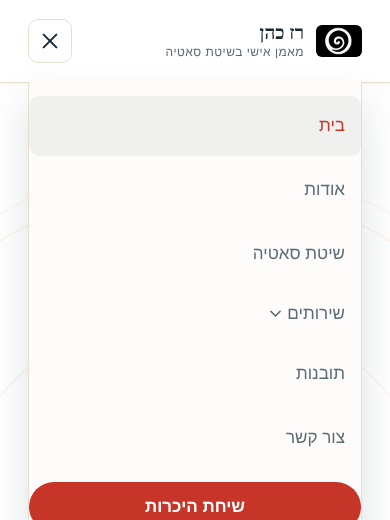
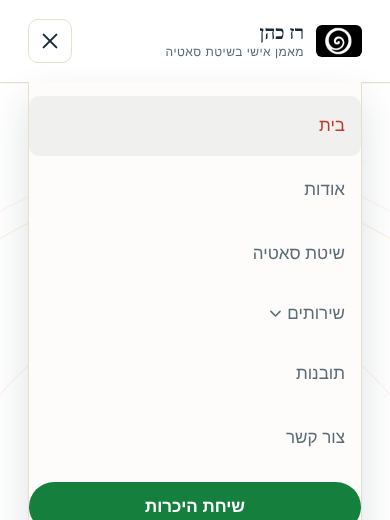
וואטסאפ כערוץ ראשי: כפתורי קריאה לפעולה (#54)
Claude-Session: https://claude.ai/code/session_019EitDQha8axd4jQ3HvUzVX

Changed region(s): [[0.0615, 0.9231, 0.9231, 1.0]]

diff --git a/satya-site/index.html b/satya-site/index.html
@@ -101,7 +101,10 @@
     <p class="hero-lede">אני רז כהן, מאמן אישי בשיטת סאטיה משנת 2017, מלווה מבוגרים, בני נוער וזוגות
     לעצור את האוטומטים, לחזור אל הגוף והנשימה - ולבחור מחדש. בקליניקה ברמת השרון ובאונליין.</p>
     <div class="hero-actions">
-      <a href="contact.html" class="btn btn-primary">לשיחת היכרות <span class="btn-arrow">←</span></a>
+      <a href="https://wa.me/972533040005?text=%D7%94%D7%99%D7%99%20%D7%A8%D7%96%2C%20%D7%90%D7%A9%D7%9E%D7%97%20%D7%9C%D7%AA%D7%90%D7%9D%20%D7%A9%D7%99%D7%97%D7%AA%20%D7%94%D7%99%D7%9B%D7%A8%D7%95%D7%AA" class="btn btn-whatsapp" target="_blank" rel="noopener">
+          <svg viewBox="0 0 24 24" fill="currentColor" aria-hidden="true"><path d="M12.04 2C6.58 2 2.13 6.45 2.13 11.91c0 1.75.46 3.45 1.32 4.95L2.05 22l5.25-1.38a9.9 9.9 0 0 0 4.74 1.21h.01c5.46 0 9.91-4.45 9.91-9.91C21.96 6.45 17.5 2 12.04 2Zm0 18.13h-.01a8.2 8.2 0 0 1-4.19-1.15l-.3-.18-3.12.82.83-3.04-.2-.31a8.2 8.2 0 0 1-1.26-4.36c0-4.54 3.7-8.24 8.25-8.24 2.2 0 4.27.86 5.83 2.42a8.18 8.18 0 0 1 2.41 5.83c0 4.55-3.7 8.21-8.24 8.21Zm4.52-6.16c-.25-.12-1.47-.72-1.69-.81-.23-.08-.39-.12-.56.13-.17.24-.64.81-.78.97-.15.17-.29.19-.53.06-.25-.12-1.05-.39-2-1.23-.74-.66-1.24-1.47-1.38-1.72-.15-.24-.02-.38.11-.5.11-.11.25-.29.37-.43.12-.15.16-.25.24-.41.08-.17.04-.31-.02-.44-.06-.12-.56-1.35-.77-1.85-.2-.48-.41-.42-.56-.42h-.48c-.17 0-.44.06-.67.31-.23.24-.87.85-.87 2.08 0 1.22.89 2.4 1.02 2.57.12.17 1.75 2.67 4.25 3.74.59.26 1.06.41 1.42.53.6.19 1.14.16 1.57.1.48-.07 1.47-.6 1.68-1.18.21-.58.21-1.08.14-1.18-.06-.1-.23-.16-.48-.28Z"/></svg>
+          שיחת היכרות בוואטסאפ
+        </a>
       <a href="satya.html" class="btn btn-outline">מה זו שיטת סאטיה</a>
     </div>
     <div class="hero-stats">
@@ -320,11 +323,11 @@
         <p>שיחת היכרות קצרה, ללא כל התחייבות.</p>
       </div>
       <div class="cta-actions" style="display:flex; gap:14px; flex-wrap:wrap;">
-        <a href="contact.html" class="btn btn-primary">לשיחת היכרות <span class="btn-arrow">←</span></a>
         <a href="https://wa.me/972533040005?text=%D7%94%D7%99%D7%99%20%D7%A8%D7%96%2C%20%D7%90%D7%A9%D7%9E%D7%97%20%D7%9C%D7%AA%D7%90%D7%9D%20%D7%A9%D7%99%D7%97%D7%AA%20%D7%94%D7%99%D7%9B%D7%A8%D7%95%D7%AA" class="btn btn-whatsapp" target="_blank" rel="noopener">
           <svg viewBox="0 0 24 24" fill="currentColor" aria-hidden="true"><path d="M12.04 2C6.58 2 2.13 6.45 2.13 11.91c0 1.75.46 3.45 1.32 4.95L2.05 22l5.25-1.38a9.9 9.9 0 0 0 4.74 1.21h.01c5.46 0 9.91-4.45 9.91-9.91C21.96 6.45 17.5 2 12.04 2Zm0 18.13h-.01a8.2 8.2 0 0 1-4.19-1.15l-.3-.18-3.12.82.83-3.04-.2-.31a8.2 8.2 0 0 1-1.26-4.36c0-4.54 3.7-8.24 8.25-8.24 2.2 0 4.27.86 5.83 2.42a8.18 8.18 0 0 1 2.41 5.83c0 4.55-3.7 8.21-8.24 8.21Zm4.52-6.16c-.25-.12-1.47-.72-1.69-.81-.23-.08-.39-.12-.56.13-.17.24-.64.81-.78.97-.15.17-.29.19-.53.06-.25-.12-1.05-.39-2-1.23-.74-.66-1.24-1.47-1.38-1.72-.15-.24-.02-.38.11-.5.11-.11.25-.29.37-.43.12-.15.16-.25.24-.41.08-.17.04-.31-.02-.44-.06-.12-.56-1.35-.77-1.85-.2-.48-.41-.42-.56-.42h-.48c-.17 0-.44.06-.67.31-.23.24-.87.85-.87 2.08 0 1.22.89 2.4 1.02 2.57.12.17 1.75 2.67 4.25 3.74.59.26 1.06.41 1.42.53.6.19 1.14.16 1.57.1.48-.07 1.47-.6 1.68-1.18.21-.58.21-1.08.14-1.18-.06-.1-.23-.16-.48-.28Z"/></svg>
           וואטסאפ ישיר
         </a>
+        <a href="contact.html" class="btn btn-outline">או השאירו פרטים</a>
       </div>
     </div>
   </div>

diff --git a/satya-site/clear-way.html b/satya-site/clear-way.html
@@ -207,11 +207,11 @@
         <p>שיחת הכנה אחת יכולה לשנות איך תגיעו אליה. בואו נדבר.</p>
       </div>
       <div class="cta-actions" style="display:flex; gap:14px; flex-wrap:wrap;">
-        <a href="contact.html" class="btn btn-primary">לשיחת היכרות <span class="btn-arrow">←</span></a>
         <a href="https://wa.me/972533040005?text=%D7%94%D7%99%D7%99%20%D7%A8%D7%96%2C%20%D7%99%D7%A9%20%D7%9C%D7%99%20%D7%A9%D7%99%D7%97%D7%94%20%D7%97%D7%A9%D7%95%D7%91%D7%94%20%D7%91%D7%A7%D7%A8%D7%95%D7%91%20%D7%95%D7%90%D7%A9%D7%9E%D7%97%20%D7%9C%D7%A9%D7%9E%D7%95%D7%A2%20%D7%A2%D7%9C%20%D7%A9%D7%99%D7%97%D7%AA%20%D7%94%D7%9B%D7%A0%D7%94%20Clear%20Way" class="btn btn-whatsapp" target="_blank" rel="noopener">
           <svg viewBox="0 0 24 24" fill="currentColor" aria-hidden="true"><path d="M12.04 2C6.58 2 2.13 6.45 2.13 11.91c0 1.75.46 3.45 1.32 4.95L2.05 22l5.25-1.38a9.9 9.9 0 0 0 4.74 1.21h.01c5.46 0 9.91-4.45 9.91-9.91C21.96 6.45 17.5 2 12.04 2Zm0 18.13h-.01a8.2 8.2 0 0 1-4.19-1.15l-.3-.18-3.12.82.83-3.04-.2-.31a8.2 8.2 0 0 1-1.26-4.36c0-4.54 3.7-8.24 8.25-8.24 2.2 0 4.27.86 5.83 2.42a8.18 8.18 0 0 1 2.41 5.83c0 4.55-3.7 8.21-8.24 8.21Zm4.52-6.16c-.25-.12-1.47-.72-1.69-.81-.23-.08-.39-.12-.56.13-.17.24-.64.81-.78.97-.15.17-.29.19-.53.06-.25-.12-1.05-.39-2-1.23-.74-.66-1.24-1.47-1.38-1.72-.15-.24-.02-.38.11-.5.11-.11.25-.29.37-.43.12-.15.16-.25.24-.41.08-.17.04-.31-.02-.44-.06-.12-.56-1.35-.77-1.85-.2-.48-.41-.42-.56-.42h-.48c-.17 0-.44.06-.67.31-.23.24-.87.85-.87 2.08 0 1.22.89 2.4 1.02 2.57.12.17 1.75 2.67 4.25 3.74.59.26 1.06.41 1.42.53.6.19 1.14.16 1.57.1.48-.07 1.47-.6 1.68-1.18.21-.58.21-1.08.14-1.18-.06-.1-.23-.16-.48-.28Z"/></svg>
           וואטסאפ ישיר
         </a>
+        <a href="contact.html" class="btn btn-outline">או השאירו פרטים</a>
       </div>
     </div>
   </div>

diff --git a/satya-site/teens-coaching.html b/satya-site/teens-coaching.html
@@ -298,11 +298,11 @@
         <p>שיחת התייעצות קצרה וללא שום התחייבות.</p>
       </div>
       <div class="cta-actions" style="display:flex; gap:14px; flex-wrap:wrap;">
-        <a href="contact.html?topic=teens" class="btn btn-primary">לשיחת היכרות <span class="btn-arrow">←</span></a>
         <a href="https://wa.me/972533040005?text=%D7%94%D7%99%D7%99%20%D7%A8%D7%96%2C%20%D7%90%D7%A9%D7%9E%D7%97%20%D7%9C%D7%AA%D7%90%D7%9D%20%D7%A9%D7%99%D7%97%D7%AA%20%D7%94%D7%99%D7%9B%D7%A8%D7%95%D7%AA%20%D7%A2%D7%9C%20%D7%90%D7%99%D7%9E%D7%95%D7%9F%20%D7%9C%D7%91%D7%A0%D7%99%20%D7%A0%D7%95%D7%A2%D7%A8%20%D7%95%D7%9E%D7%AA%D7%91%D7%92%D7%A8%D7%99%D7%9D" class="btn btn-whatsapp" target="_blank" rel="noopener">
           <svg viewBox="0 0 24 24" fill="currentColor" aria-hidden="true"><path d="M12.04 2C6.58 2 2.13 6.45 2.13 11.91c0 1.75.46 3.45 1.32 4.95L2.05 22l5.25-1.38a9.9 9.9 0 0 0 4.74 1.21h.01c5.46 0 9.91-4.45 9.91-9.91C21.96 6.45 17.5 2 12.04 2Zm0 18.13h-.01a8.2 8.2 0 0 1-4.19-1.15l-.3-.18-3.12.82.83-3.04-.2-.31a8.2 8.2 0 0 1-1.26-4.36c0-4.54 3.7-8.24 8.25-8.24 2.2 0 4.27.86 5.83 2.42a8.18 8.18 0 0 1 2.41 5.83c0 4.55-3.7 8.21-8.24 8.21Zm4.52-6.16c-.25-.12-1.47-.72-1.69-.81-.23-.08-.39-.12-.56.13-.17.24-.64.81-.78.97-.15.17-.29.19-.53.06-.25-.12-1.05-.39-2-1.23-.74-.66-1.24-1.47-1.38-1.72-.15-.24-.02-.38.11-.5.11-.11.25-.29.37-.43.12-.15.16-.25.24-.41.08-.17.04-.31-.02-.44-.06-.12-.56-1.35-.77-1.85-.2-.48-.41-.42-.56-.42h-.48c-.17 0-.44.06-.67.31-.23.24-.87.85-.87 2.08 0 1.22.89 2.4 1.02 2.57.12.17 1.75 2.67 4.25 3.74.59.26 1.06.41 1.42.53.6.19 1.14.16 1.57.1.48-.07 1.47-.6 1.68-1.18.21-.58.21-1.08.14-1.18-.06-.1-.23-.16-.48-.28Z"/></svg>
           וואטסאפ ישיר
         </a>
+        <a href="contact.html?topic=teens" class="btn btn-outline">או השאירו פרטים</a>
       </div>
     </div>
   </div>

diff --git a/satya-site/personal-coaching.html b/satya-site/personal-coaching.html
@@ -235,11 +235,11 @@
         <p>שיחת היכרות קצרה, ללא כל התחייבות - נבין יחד מה נכון לשלב הזה בחיים שלכם.</p>
       </div>
       <div class="cta-actions" style="display:flex; gap:14px; flex-wrap:wrap;">
-        <a href="contact.html?topic=personal" class="btn btn-primary">לשיחת היכרות <span class="btn-arrow">←</span></a>
         <a href="https://wa.me/972533040005?text=%D7%94%D7%99%D7%99%20%D7%A8%D7%96%2C%20%D7%90%D7%A9%D7%9E%D7%97%20%D7%9C%D7%AA%D7%90%D7%9D%20%D7%A9%D7%99%D7%97%D7%AA%20%D7%94%D7%99%D7%9B%D7%A8%D7%95%D7%AA%20%D7%A2%D7%9C%20%D7%90%D7%99%D7%9E%D7%95%D7%9F%20%D7%90%D7%99%D7%A9%D7%99" class="btn btn-whatsapp" target="_blank" rel="noopener">
           <svg viewBox="0 0 24 24" fill="currentColor" aria-hidden="true"><path d="M12.04 2C6.58 2 2.13 6.45 2.13 11.91c0 1.75.46 3.45 1.32 4.95L2.05 22l5.25-1.38a9.9 9.9 0 0 0 4.74 1.21h.01c5.46 0 9.91-4.45 9.91-9.91C21.96 6.45 17.5 2 12.04 2Zm0 18.13h-.01a8.2 8.2 0 0 1-4.19-1.15l-.3-.18-3.12.82.83-3.04-.2-.31a8.2 8.2 0 0 1-1.26-4.36c0-4.54 3.7-8.24 8.25-8.24 2.2 0 4.27.86 5.83 2.42a8.18 8.18 0 0 1 2.41 5.83c0 4.55-3.7 8.21-8.24 8.21Zm4.52-6.16c-.25-.12-1.47-.72-1.69-.81-.23-.08-.39-.12-.56.13-.17.24-.64.81-.78.97-.15.17-.29.19-.53.06-.25-.12-1.05-.39-2-1.23-.74-.66-1.24-1.47-1.38-1.72-.15-.24-.02-.38.11-.5.11-.11.25-.29.37-.43.12-.15.16-.25.24-.41.08-.17.04-.31-.02-.44-.06-.12-.56-1.35-.77-1.85-.2-.48-.41-.42-.56-.42h-.48c-.17 0-.44.06-.67.31-.23.24-.87.85-.87 2.08 0 1.22.89 2.4 1.02 2.57.12.17 1.75 2.67 4.25 3.74.59.26 1.06.41 1.42.53.6.19 1.14.16 1.57.1.48-.07 1.47-.6 1.68-1.18.21-.58.21-1.08.14-1.18-.06-.1-.23-.16-.48-.28Z"/></svg>
           וואטסאפ ישיר
         </a>
+        <a href="contact.html?topic=personal" class="btn btn-outline">או השאירו פרטים</a>
       </div>
     </div>
   </div>

diff --git a/satya-site/couples-coaching.html b/satya-site/couples-coaching.html
@@ -207,11 +207,11 @@
         <p>שיחת היכרות קצרה, ללא כל התחייבות.</p>
       </div>
       <div class="cta-actions" style="display:flex; gap:14px; flex-wrap:wrap;">
-        <a href="contact.html?topic=couples" class="btn btn-primary">לשיחת היכרות <span class="btn-arrow">←</span></a>
         <a href="https://wa.me/972533040005?text=%D7%94%D7%99%D7%99%20%D7%A8%D7%96%2C%20%D7%90%D7%A9%D7%9E%D7%97%20%D7%9C%D7%AA%D7%90%D7%9D%20%D7%A9%D7%99%D7%97%D7%AA%20%D7%94%D7%99%D7%9B%D7%A8%D7%95%D7%AA%20%D7%A2%D7%9C%20%D7%90%D7%99%D7%9E%D7%95%D7%9F%20%D7%96%D7%95%D7%92%D7%99" class="btn btn-whatsapp" target="_blank" rel="noopener">
           <svg viewBox="0 0 24 24" fill="currentColor" aria-hidden="true"><path d="M12.04 2C6.58 2 2.13 6.45 2.13 11.91c0 1.75.46 3.45 1.32 4.95L2.05 22l5.25-1.38a9.9 9.9 0 0 0 4.74 1.21h.01c5.46 0 9.91-4.45 9.91-9.91C21.96 6.45 17.5 2 12.04 2Zm0 18.13h-.01a8.2 8.2 0 0 1-4.19-1.15l-.3-.18-3.12.82.83-3.04-.2-.31a8.2 8.2 0 0 1-1.26-4.36c0-4.54 3.7-8.24 8.25-8.24 2.2 0 4.27.86 5.83 2.42a8.18 8.18 0 0 1 2.41 5.83c0 4.55-3.7 8.21-8.24 8.21Zm4.52-6.16c-.25-.12-1.47-.72-1.69-.81-.23-.08-.39-.12-.56.13-.17.24-.64.81-.78.97-.15.17-.29.19-.53.06-.25-.12-1.05-.39-2-1.23-.74-.66-1.24-1.47-1.38-1.72-.15-.24-.02-.38.11-.5.11-.11.25-.29.37-.43.12-.15.16-.25.24-.41.08-.17.04-.31-.02-.44-.06-.12-.56-1.35-.77-1.85-.2-.48-.41-.42-.56-.42h-.48c-.17 0-.44.06-.67.31-.23.24-.87.85-.87 2.08 0 1.22.89 2.4 1.02 2.57.12.17 1.75 2.67 4.25 3.74.59.26 1.06.41 1.42.53.6.19 1.14.16 1.57.1.48-.07 1.47-.6 1.68-1.18.21-.58.21-1.08.14-1.18-.06-.1-.23-.16-.48-.28Z"/></svg>
           וואטסאפ ישיר
         </a>
+        <a href="contact.html?topic=couples" class="btn btn-outline">או השאירו פרטים</a>
       </div>
     </div>
   </div>

diff --git a/satya-site/insights.html b/satya-site/insights.html
@@ -187,11 +187,11 @@
         <p>שיחת היכרות קצרה יכולה להיות התחלה טובה.</p>
       </div>
       <div class="cta-actions" style="display:flex; gap:14px; flex-wrap:wrap;">
-        <a href="contact.html" class="btn btn-primary">לשיחת היכרות <span class="btn-arrow">←</span></a>
         <a href="https://wa.me/972533040005?text=%D7%94%D7%99%D7%99%20%D7%A8%D7%96%2C%20%D7%90%D7%A9%D7%9E%D7%97%20%D7%9C%D7%AA%D7%90%D7%9D%20%D7%A9%D7%99%D7%97%D7%AA%20%D7%94%D7%99%D7%9B%D7%A8%D7%95%D7%AA" class="btn btn-whatsapp" target="_blank" rel="noopener">
           <svg viewBox="0 0 24 24" fill="currentColor" aria-hidden="true"><path d="M12.04 2C6.58 2 2.13 6.45 2.13 11.91c0 1.75.46 3.45 1.32 4.95L2.05 22l5.25-1.38a9.9 9.9 0 0 0 4.74 1.21h.01c5.46 0 9.91-4.45 9.91-9.91C21.96 6.45 17.5 2 12.04 2Zm0 18.13h-.01a8.2 8.2 0 0 1-4.19-1.15l-.3-.18-3.12.82.83-3.04-.2-.31a8.2 8.2 0 0 1-1.26-4.36c0-4.54 3.7-8.24 8.25-8.24 2.2 0 4.27.86 5.83 2.42a8.18 8.18 0 0 1 2.41 5.83c0 4.55-3.7 8.21-8.24 8.21Zm4.52-6.16c-.25-.12-1.47-.72-1.69-.81-.23-.08-.39-.12-.56.13-.17.24-.64.81-.78.97-.15.17-.29.19-.53.06-.25-.12-1.05-.39-2-1.23-.74-.66-1.24-1.47-1.38-1.72-.15-.24-.02-.38.11-.5.11-.11.25-.29.37-.43.12-.15.16-.25.24-.41.08-.17.04-.31-.02-.44-.06-.12-.56-1.35-.77-1.85-.2-.48-.41-.42-.56-.42h-.48c-.17 0-.44.06-.67.31-.23.24-.87.85-.87 2.08 0 1.22.89 2.4 1.02 2.57.12.17 1.75 2.67 4.25 3.74.59.26 1.06.41 1.42.53.6.19 1.14.16 1.57.1.48-.07 1.47-.6 1.68-1.18.21-.58.21-1.08.14-1.18-.06-.1-.23-.16-.48-.28Z"/></svg>
           וואטסאפ ישיר
         </a>
+        <a href="contact.html" class="btn btn-outline">או השאירו פרטים</a>
       </div>
     </div>
   </div>

diff --git a/satya-site/about.html b/satya-site/about.html
@@ -222,11 +222,11 @@
         <p>שיחת היכרות קצרה, ללא כל התחייבות.</p>
       </div>
       <div class="cta-actions" style="display:flex; gap:14px; flex-wrap:wrap;">
-        <a href="contact.html" class="btn btn-primary">לשיחת היכרות <span class="btn-arrow">←</span></a>
         <a href="https://wa.me/972533040005?text=%D7%94%D7%99%D7%99%20%D7%A8%D7%96%2C%20%D7%90%D7%A9%D7%9E%D7%97%20%D7%9C%D7%AA%D7%90%D7%9D%20%D7%A9%D7%99%D7%97%D7%AA%20%D7%94%D7%99%D7%9B%D7%A8%D7%95%D7%AA" class="btn btn-whatsapp" target="_blank" rel="noopener">
           <svg viewBox="0 0 24 24" fill="currentColor" aria-hidden="true"><path d="M12.04 2C6.58 2 2.13 6.45 2.13 11.91c0 1.75.46 3.45 1.32 4.95L2.05 22l5.25-1.38a9.9 9.9 0 0 0 4.74 1.21h.01c5.46 0 9.91-4.45 9.91-9.91C21.96 6.45 17.5 2 12.04 2Zm0 18.13h-.01a8.2 8.2 0 0 1-4.19-1.15l-.3-.18-3.12.82.83-3.04-.2-.31a8.2 8.2 0 0 1-1.26-4.36c0-4.54 3.7-8.24 8.25-8.24 2.2 0 4.27.86 5.83 2.42a8.18 8.18 0 0 1 2.41 5.83c0 4.55-3.7 8.21-8.24 8.21Zm4.52-6.16c-.25-.12-1.47-.72-1.69-.81-.23-.08-.39-.12-.56.13-.17.24-.64.81-.78.97-.15.17-.29.19-.53.06-.25-.12-1.05-.39-2-1.23-.74-.66-1.24-1.47-1.38-1.72-.15-.24-.02-.38.11-.5.11-.11.25-.29.37-.43.12-.15.16-.25.24-.41.08-.17.04-.31-.02-.44-.06-.12-.56-1.35-.77-1.85-.2-.48-.41-.42-.56-.42h-.48c-.17 0-.44.06-.67.31-.23.24-.87.85-.87 2.08 0 1.22.89 2.4 1.02 2.57.12.17 1.75 2.67 4.25 3.74.59.26 1.06.41 1.42.53.6.19 1.14.16 1.57.1.48-.07 1.47-.6 1.68-1.18.21-.58.21-1.08.14-1.18-.06-.1-.23-.16-.48-.28Z"/></svg>
           וואטסאפ ישיר
         </a>
+        <a href="contact.html" class="btn btn-outline">או השאירו פרטים</a>
       </div>
     </div>
   </div>

diff --git a/satya-site/satya.html b/satya-site/satya.html
@@ -217,11 +217,11 @@
         <p>שיחת היכרות קצרה, ללא כל התחייבות.</p>
       </div>
       <div class="cta-actions" style="display:flex; gap:14px; flex-wrap:wrap;">
-        <a href="contact.html" class="btn btn-primary">לשיחת היכרות <span class="btn-arrow">←</span></a>
         <a href="https://wa.me/972533040005?text=%D7%94%D7%99%D7%99%20%D7%A8%D7%96%2C%20%D7%90%D7%A9%D7%9E%D7%97%20%D7%9C%D7%AA%D7%90%D7%9D%20%D7%A9%D7%99%D7%97%D7%AA%20%D7%94%D7%99%D7%9B%D7%A8%D7%95%D7%AA" class="btn btn-whatsapp" target="_blank" rel="noopener">
           <svg viewBox="0 0 24 24" fill="currentColor" aria-hidden="true"><path d="M12.04 2C6.58 2 2.13 6.45 2.13 11.91c0 1.75.46 3.45 1.32 4.95L2.05 22l5.25-1.38a9.9 9.9 0 0 0 4.74 1.21h.01c5.46 0 9.91-4.45 9.91-9.91C21.96 6.45 17.5 2 12.04 2Zm0 18.13h-.01a8.2 8.2 0 0 1-4.19-1.15l-.3-.18-3.12.82.83-3.04-.2-.31a8.2 8.2 0 0 1-1.26-4.36c0-4.54 3.7-8.24 8.25-8.24 2.2 0 4.27.86 5.83 2.42a8.18 8.18 0 0 1 2.41 5.83c0 4.55-3.7 8.21-8.24 8.21Zm4.52-6.16c-.25-.12-1.47-.72-1.69-.81-.23-.08-.39-.12-.56.13-.17.24-.64.81-.78.97-.15.17-.29.19-.53.06-.25-.12-1.05-.39-2-1.23-.74-.66-1.24-1.47-1.38-1.72-.15-.24-.02-.38.11-.5.11-.11.25-.29.37-.43.12-.15.16-.25.24-.41.08-.17.04-.31-.02-.44-.06-.12-.56-1.35-.77-1.85-.2-.48-.41-.42-.56-.42h-.48c-.17 0-.44.06-.67.31-.23.24-.87.85-.87 2.08 0 1.22.89 2.4 1.02 2.57.12.17 1.75 2.67 4.25 3.74.59.26 1.06.41 1.42.53.6.19 1.14.16 1.57.1.48-.07 1.47-.6 1.68-1.18.21-.58.21-1.08.14-1.18-.06-.1-.23-.16-.48-.28Z"/></svg>
           וואטסאפ ישיר
         </a>
+        <a href="contact.html" class="btn btn-outline">או השאירו פרטים</a>
       </div>
     </div>
   </div>

diff --git a/satya-site/assets/styles.css b/satya-site/assets/styles.css
@@ -158,11 +158,11 @@ main p a:hover, .site-footer a:hover, .contact-info-item a:hover, .acc-item a:ho
 
 .nav-cta{
   margin-inline-start:10px;
-  background:var(--coral-dim) !important; color:#fff !important;
+  background:#15803d !important; color:#fff !important;
   padding:11px 22px !important; border-radius:100px !important;
   font-weight:700 !important;
 }
-.nav-cta:hover{ background:var(--coral-darker) !important; color:#fff !important; }
+.nav-cta:hover{ background:#166534 !important; color:#fff !important; }
 
 .nav-toggle{
   display:none; width:44px; height:44px; border-radius:10px;
@@ -333,6 +333,8 @@ section{ padding:96px 0; }
 }
 .btn-whatsapp:hover{ background:#22c35e; color:#fff; border-color:#22c35e; }
 .btn-whatsapp svg{ width:18px; height:18px; flex-shrink:0; }
+.cta-actions .btn-whatsapp, .hero-actions .btn-whatsapp{ background:#15803d; color:#fff; border-color:#15803d; }
+.cta-actions .btn-whatsapp:hover, .hero-actions .btn-whatsapp:hover{ background:#166534; color:#fff; border-color:#166534; }
 
 .numbered-list{ list-style:none; margin:0; padding:0; display:grid; gap:28px; counter-reset:num; }
 .numbered-list li{ display:flex; gap:22px; }
